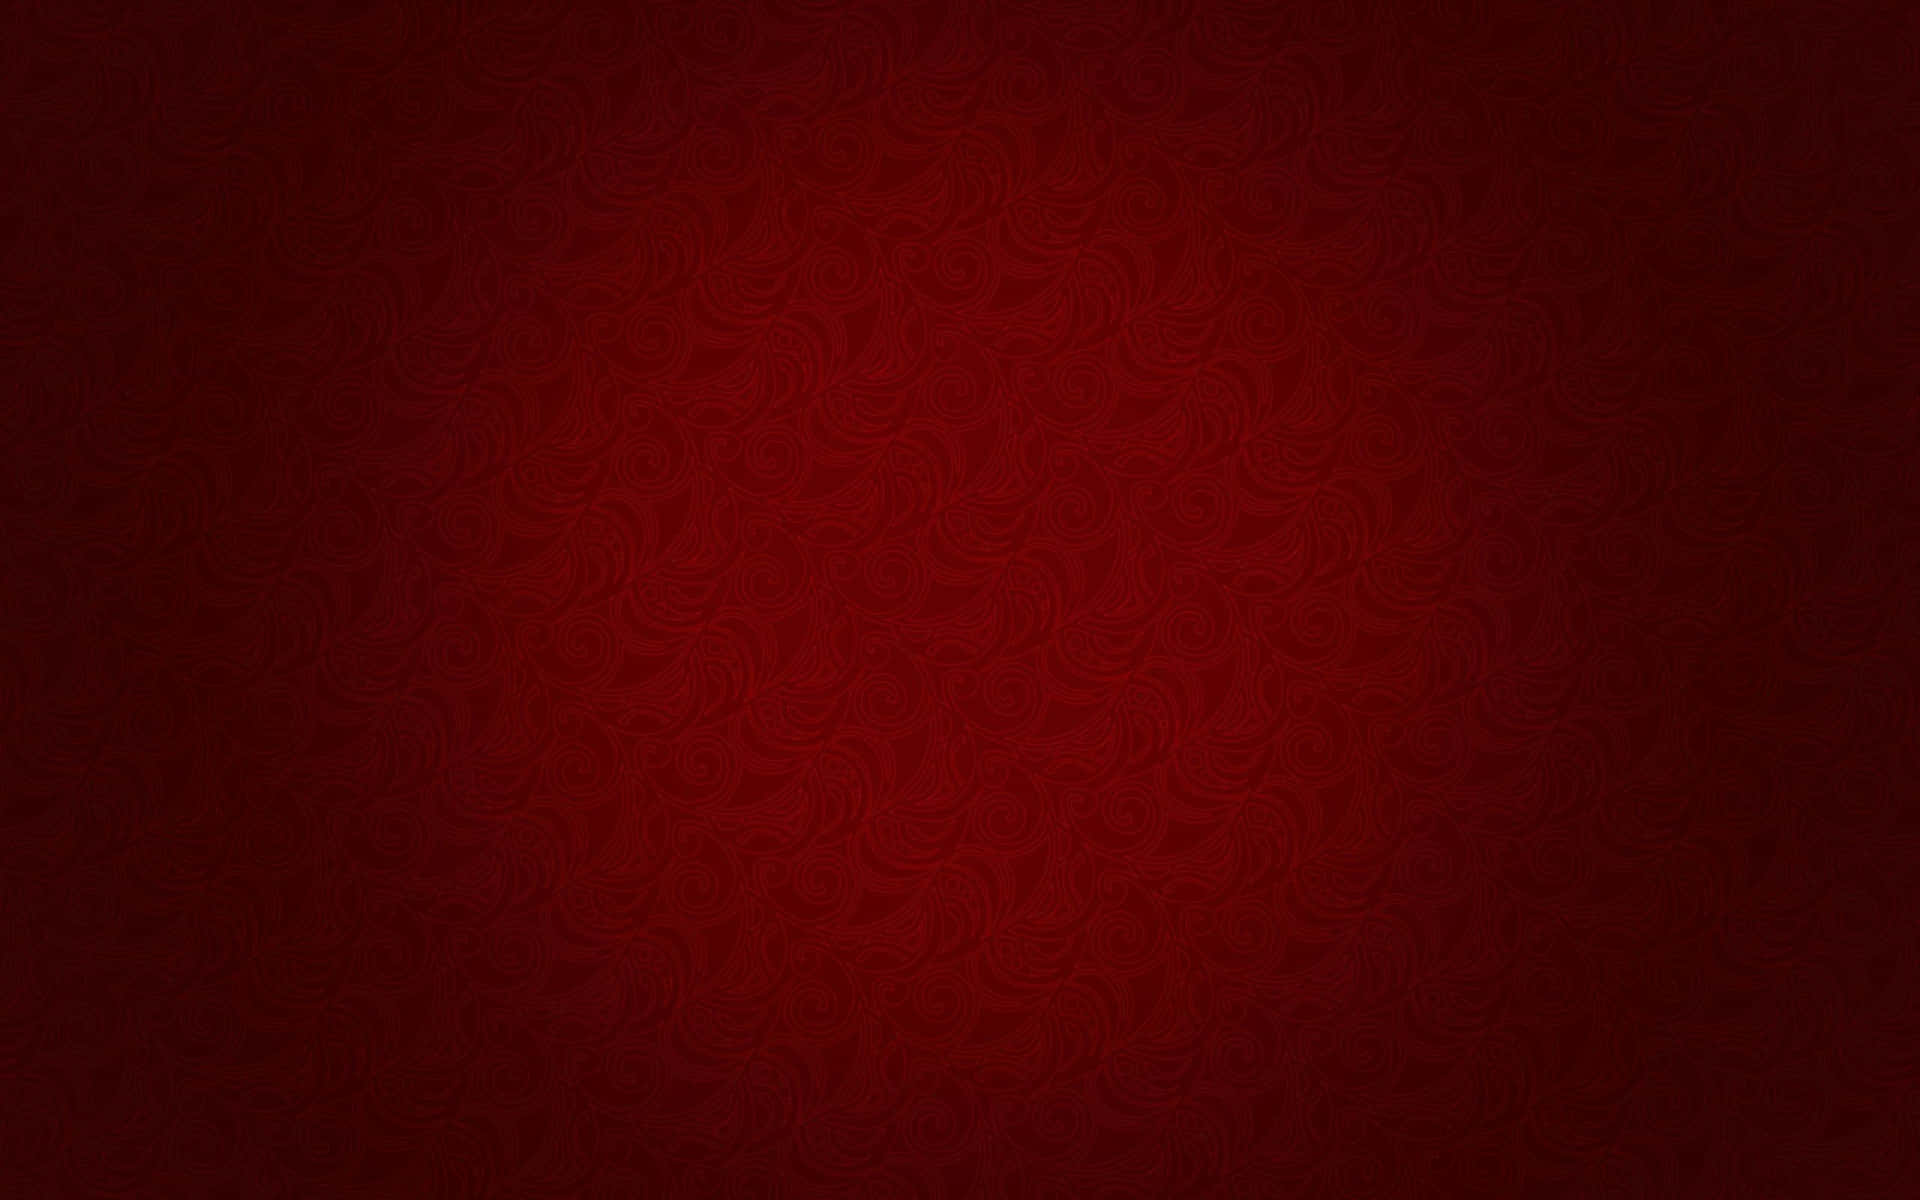
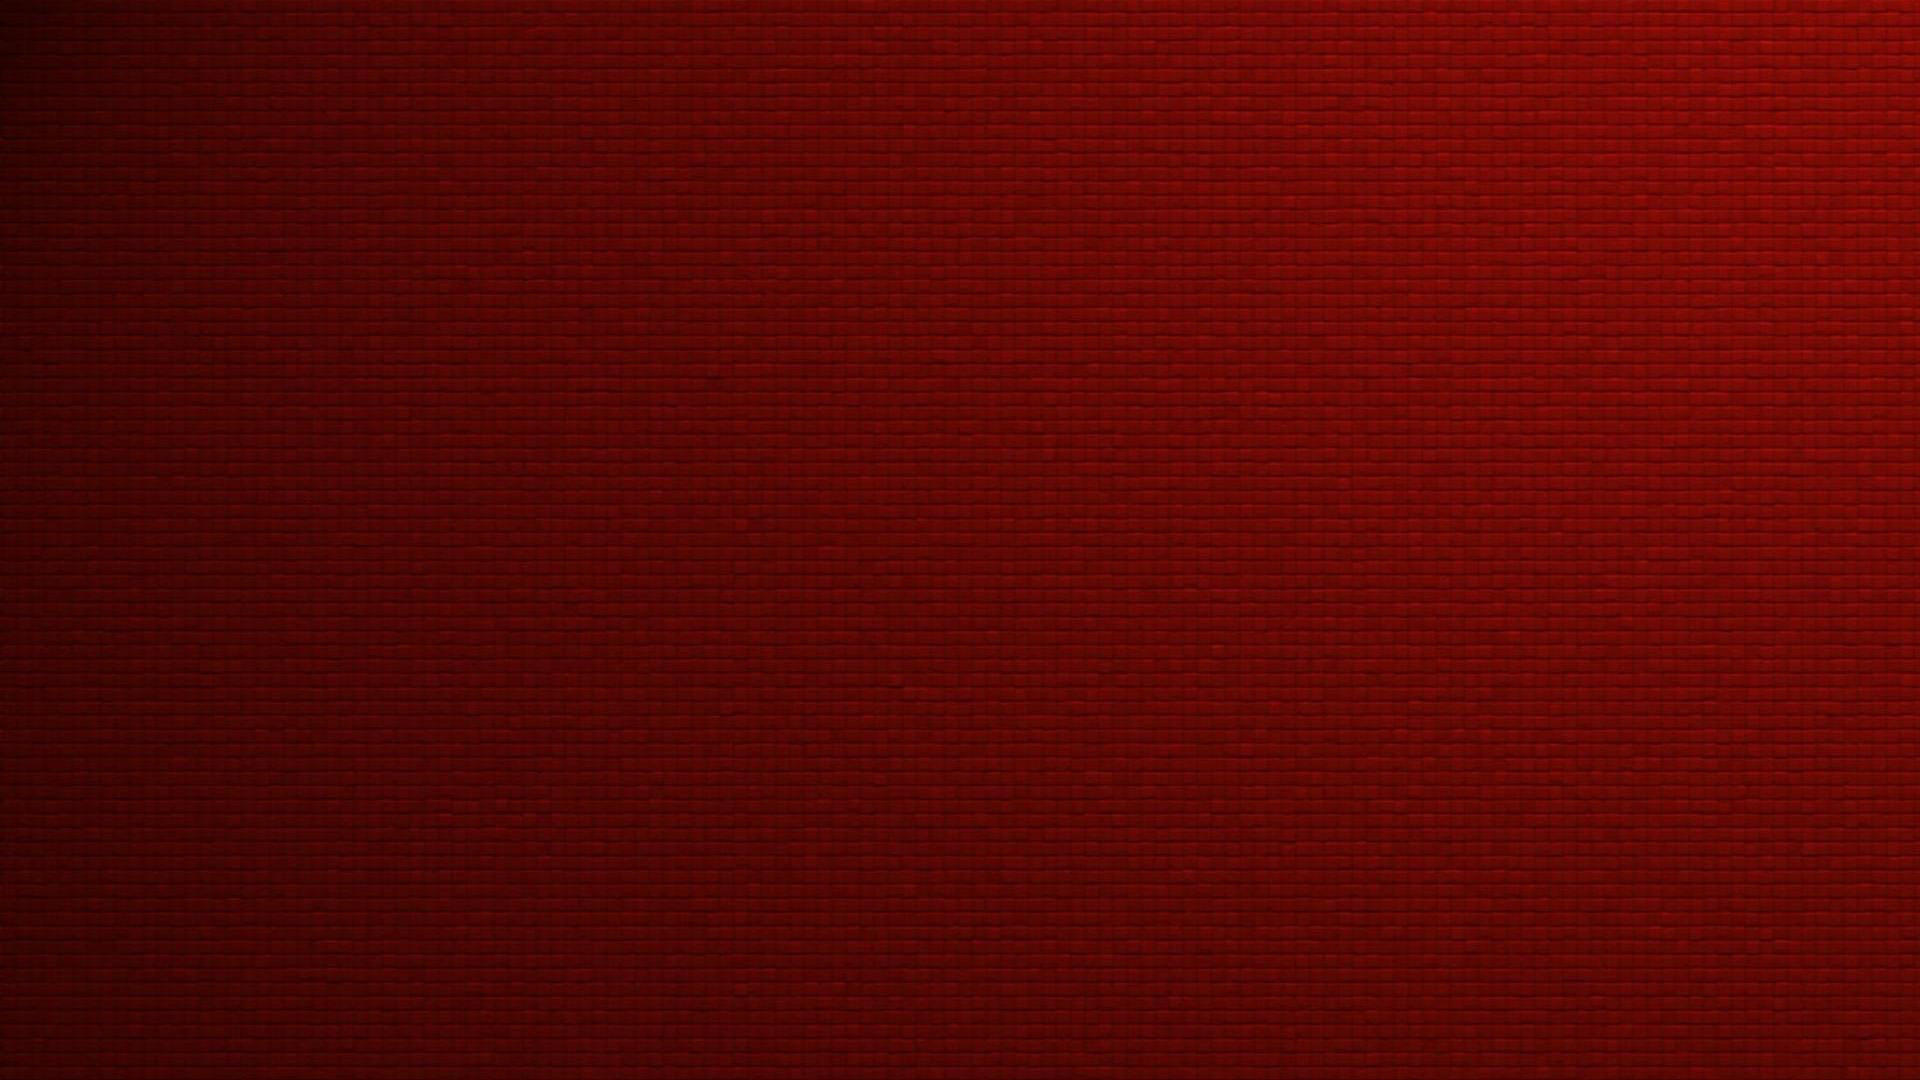
Changed the Background and Tried to fix the Windows problem again.

diff --git a/main.py b/main.py
@@ -41,7 +41,6 @@ class SmartChefApp(tk.Tk):
         self.canvas = tk.Canvas(self, bg=THEME_COLOR, highlightthickness=0)
         self.canvas.pack(fill="both", expand=True)
         
-        # 2. LOAD BACKGROUND
         self.bg_image_obj = None
         self.bg_id = None
         self.load_background()
@@ -177,13 +176,16 @@ class SmartChefApp(tk.Tk):
         open_login_window(self, role, target_dashboard)
         
         if target_dashboard.state() != "withdrawn":
-            target_dashboard.lift()
-            target_dashboard.focus_force()
-            try:
-                target_dashboard.attributes("-topmost", True)
-                target_dashboard.attributes("-topmost", False)
-            except Exception:
-                pass
+            def force_lift():
+                target_dashboard.lift()
+                target_dashboard.focus_force()
+                try:
+                    target_dashboard.attributes("-topmost", True)
+                    target_dashboard.after(200, lambda: target_dashboard.attributes("-topmost", False))
+                except Exception:
+                    pass
+
+            self.after(200, force_lift)
 
 if __name__ == "__main__":
     app = SmartChefApp()
